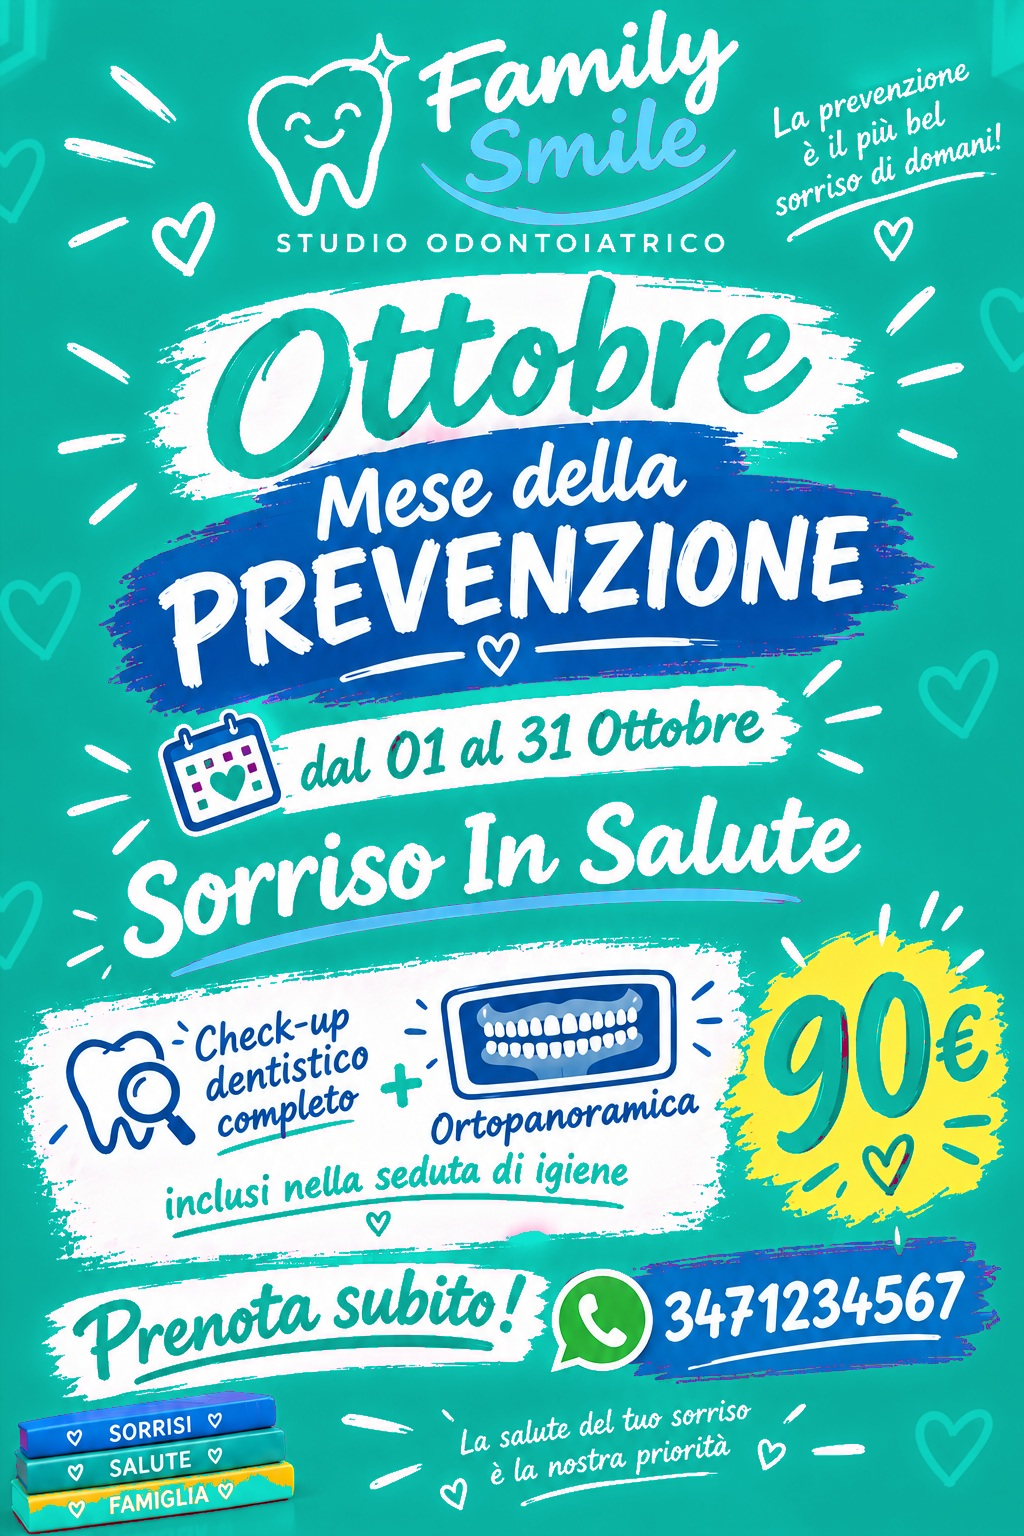
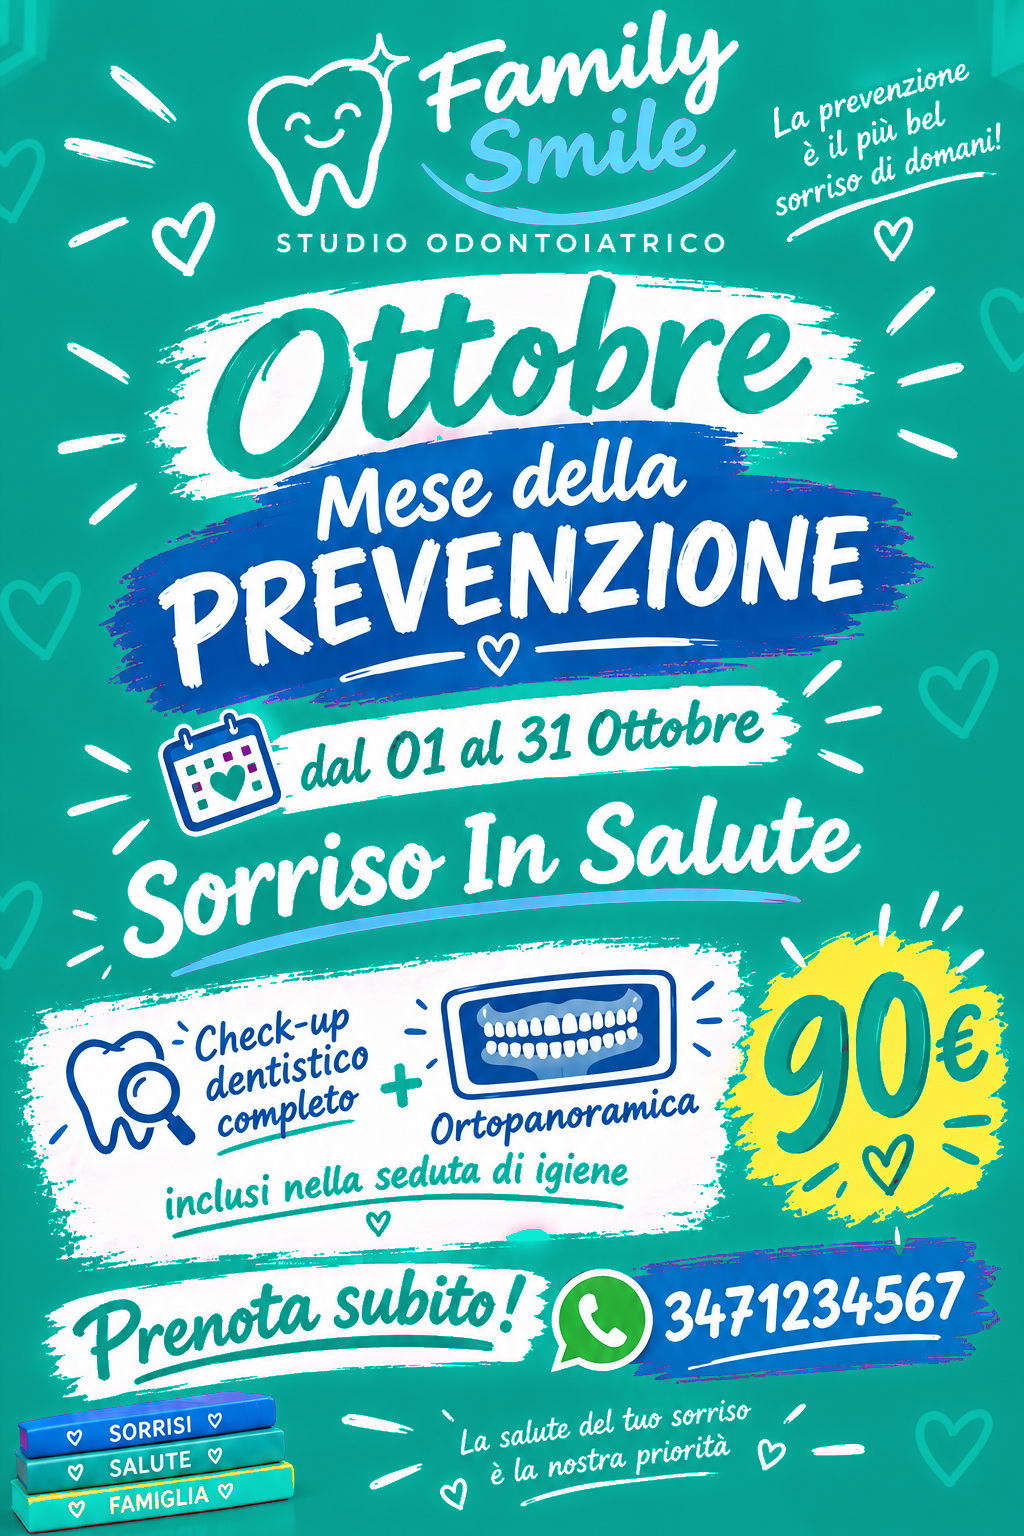
nuova versione editor v3

diff --git a/index.html b/index.html
@@ -1,36 +1,71 @@
 <!doctype html><html lang="it"><head><meta charset="utf-8"><meta name="viewport" content="width=device-width,initial-scale=1">
-<title>Family Smile Editor V2</title>
-<link href="https://fonts.googleapis.com/css2?family=Caveat+Brush&family=Kalam:wght@700&family=Nunito:wght@800;900&family=Permanent+Marker&display=swap" rel="stylesheet">
+<title>Family Smile Editor PRO</title>
+<link rel="preconnect" href="https://fonts.googleapis.com"><link rel="preconnect" href="https://fonts.gstatic.com" crossorigin>
+<link href="https://fonts.googleapis.com/css2?family=Caveat+Brush&family=Kalam:wght@700&family=Nunito:wght@700;800;900&family=Permanent+Marker&display=swap" rel="stylesheet">
 <style>
-*{box-sizing:border-box}body{margin:0;background:#edf1f5;font-family:Nunito,Arial;color:#17324d}.app{display:grid;grid-template-columns:390px 1fr;min-height:100vh}.panel{height:100vh;overflow:auto;background:#fff;padding:20px;box-shadow:2px 0 18px #0002;z-index:3}.panel h2{margin:0}.hint{font-size:12px;color:#687b8d;line-height:1.45;margin:5px 0 14px}label{font-size:12px;font-weight:900;display:block;margin:9px 0 3px}input{width:100%;padding:9px;border:1px solid #d7e0e8;border-radius:9px;font:inherit}.row{display:grid;grid-template-columns:1fr 1fr;gap:8px}.pals{display:grid;grid-template-columns:repeat(5,1fr);gap:6px}.pal{text-align:center;font-size:10px;font-weight:900;cursor:pointer}.thumb{height:68px;border-radius:8px;background-size:cover;background-position:center;border:2px solid white;box-shadow:0 0 0 1px #ccd}.pal.active .thumb{outline:3px solid #222}.actions{display:grid;grid-template-columns:1fr 1fr;gap:8px;margin-top:14px}button{padding:10px;border:0;border-radius:9px;background:#075da8;color:#fff;font-weight:900;cursor:pointer}.secondary{background:#687c8f}.stage{display:flex;justify-content:center;padding:24px;overflow:auto}.sheet{width:min(768px,calc(100vw - 440px));aspect-ratio:2/3;filter:drop-shadow(0 18px 38px #0003)}svg{width:100%;height:100%;display:block}.note{margin-top:12px;padding:9px;background:#f2f6fa;border-radius:9px;font-size:11px;line-height:1.4}@media(max-width:900px){.app{grid-template-columns:1fr}.panel{height:auto}.sheet{width:min(96vw,768px)}.stage{padding:8px}}
-</style></head><body><div class="app"><aside class="panel"><h2>Family Smile — Editor V2</h2><div class="hint">Motore riscritto in <b>SVG vettoriale</b>. Il testo viene ingrandito fino a riempire la sua area grafica e ridotto solo quando serve.</div>
-<label>Palette</label><div class="pals" id="pals"></div><div class="row"><div><label>Mese</label><input data-id="month" value="Ottobre"></div><div><label>Periodo</label><input data-id="dates" value="dal 01 al 31 Ottobre"></div></div><label>Campagna</label><input data-id="offer" value="Sorriso In Salute"><div class="row"><div><label>Prestazione 1</label><input data-id="service1" value="Check-up dentistico completo"></div><div><label>Prestazione 2</label><input data-id="service2" value="Ortopanoramica"></div></div><label>Nota</label><input data-id="desc" value="inclusi nella seduta di igiene"><div class="row"><div><label>Prezzo</label><input data-id="price" value="90€"></div><div><label>WhatsApp</label><input data-id="phone" value="3471234567"></div></div><label>Indirizzo</label><input data-id="address" value="Via Sono Prova 19"><div class="actions"><button id="png">PNG HD</button><button id="pdf">PDF A4</button><button class="secondary" id="save">Salva preset</button><button class="secondary" onclick="location.reload()">Ripristina</button></div><div class="note">Auto-fit basato su <b>SVG getBBox()</b>: non dipende dalla dimensione dello schermo o dai pixel CSS.</div></aside>
-<main class="stage"><div class="sheet"><svg id="poster" viewBox="0 0 1024 1536" xmlns="http://www.w3.org/2000/svg">
+:root{--navy:#073b70;--pink:#f40069;--blue:#0873bd;--cyan:#29d2ee}
+*{box-sizing:border-box}body{margin:0;background:#edf3f7;color:#0b315b;font-family:Nunito,Arial,sans-serif}.top{height:74px;background:#0a3159;color:#fff;display:flex;align-items:center;justify-content:space-between;padding:0 30px;position:sticky;top:0;z-index:20}.brand{font-size:25px;font-weight:900}.brand b{color:#25cbe7}.top button{background:transparent;border:0;color:#fff;font:800 14px Nunito;padding:12px 14px}.top .download{background:#f60068;border-radius:8px;padding:14px 22px}.layout{display:grid;grid-template-columns:340px minmax(500px,690px) 350px;gap:18px;padding:18px;justify-content:center}.card{background:#fff;border:1px solid #dbe6ee;border-radius:14px;padding:15px;box-shadow:0 3px 14px #0b315b0c;margin-bottom:14px}.fieldHead{display:flex;gap:10px;align-items:center;font-weight:900}.num{width:30px;height:30px;border-radius:50%;background:#f60068;color:#fff;display:grid;place-items:center}.sub{font-size:11px;color:#607d99;margin:1px 0 8px 40px}.previewText{width:100%;min-height:67px;border:1px solid #ccdbe7;border-radius:8px;padding:10px 13px;font:700 25px "Caveat Brush",cursive;color:#f60068;resize:none}.controls{display:grid;grid-template-columns:1fr 78px;gap:10px;margin-top:9px}.controls select{width:100%;padding:7px;border:1px solid #d2dfe8;border-radius:7px}.swatch{display:flex;gap:6px;align-items:center;font-size:11px}.swatch input{width:34px;height:30px;border:0;background:none}.posterWrap{position:sticky;top:92px}.poster{width:100%;aspect-ratio:2/3;filter:drop-shadow(0 12px 22px #0b315b30)}#flyer{width:100%;height:100%;display:block}.pals{display:grid;grid-template-columns:repeat(5,1fr);gap:6px}.pal{font-size:9px;text-align:center;font-weight:900;cursor:pointer}.thumb{aspect-ratio:2/3;border-radius:5px;background-size:cover;background-position:center;border:2px solid #fff;box-shadow:0 0 0 1px #d5e0e8}.pal.active .thumb{outline:3px solid #f60068}.sideTitle{font-size:16px;font-weight:900;margin-bottom:10px}.fixed{background:#effaf2;border-color:#d6eedc}.fixed ul{padding-left:20px;margin:7px 0;font-size:12px;line-height:1.75}.icons{display:grid;grid-template-columns:repeat(3,1fr);gap:8px}.ico{border:1px solid #d9e5ed;border-radius:9px;text-align:center;padding:8px 3px;font-size:10px}.ico svg{width:42px;height:42px;color:#07549b}.actions{display:grid;grid-template-columns:1fr 1fr;gap:8px}.actions button{border:0;border-radius:8px;padding:12px;background:#f60068;color:#fff;font-weight:900}.actions button:last-child{background:#0873bd}.tip{font-size:12px;line-height:1.55;color:#4e6c86}.status{font-size:11px;margin-top:8px;color:#16844d;font-weight:800}
+@media(max-width:1200px){.layout{grid-template-columns:320px minmax(460px,650px)}.right{grid-column:1/-1;display:grid;grid-template-columns:1fr 1fr;gap:14px}.right .card{margin:0}}
+@media(max-width:820px){.top{padding:0 12px}.brand{font-size:18px}.top .hideMob{display:none}.layout{display:block;padding:10px}.left,.right{display:block}.posterWrap{position:relative;top:auto;margin-bottom:14px}.right .card{margin-bottom:12px}}
+</style></head><body>
+<header class="top"><div class="brand">♡ Family <b>Smile</b> <small>EDITOR PRO</small></div><div><button class="hideMob" id="saveTop">▣ Salva</button><button class="hideMob" id="resetTop">↻ Ripristina</button><button class="download" id="pngTop">⇩ Scarica PNG</button></div></header>
+<div class="layout">
+<aside class="left">
+<div class="card editor" data-field="month"><div class="fieldHead"><span class="num">1</span>Testo principale (Mese)</div><div class="sub">Testo libero · riempimento automatico dello spazio</div><textarea class="previewText" data-input="month">Ottobre</textarea><div class="controls"><select data-font="month"><option value="Caveat Brush">Brush originale</option><option value="Kalam">Kalam</option><option value="Permanent Marker">Marker</option></select><label class="swatch">Colore <input type="color" data-color="month" value="#f40069"></label></div></div>
+<div class="card editor" data-field="campaign"><div class="fieldHead"><span class="num">2</span>Nome campagna</div><div class="sub">1 o 2 righe · prima riga più piccola · seconda in evidenza</div><textarea class="previewText" data-input="campaign" style="color:#0873bd">Mese della&#10;PREVENZIONE</textarea><div class="controls"><select data-font="campaign"><option value="Caveat Brush">Brush originale</option><option value="Kalam">Kalam</option><option value="Permanent Marker">Marker</option></select><label class="swatch">Colore <input type="color" data-color="campaign" value="#ffffff"></label></div></div>
+<div class="card editor" data-field="subtitle"><div class="fieldHead"><span class="num">3</span>Sottotitolo campagna</div><div class="sub">Testo libero · riempimento automatico dello spazio</div><textarea class="previewText" data-input="subtitle">Sorriso In Salute</textarea><div class="controls"><select data-font="subtitle"><option value="Caveat Brush">Brush originale</option><option value="Kalam">Kalam</option><option value="Permanent Marker">Marker</option></select><label class="swatch">Colore <input type="color" data-color="subtitle" value="#ffffff"></label></div></div>
+<div class="card"><div class="sideTitle">Varianti colore della grafica</div><div class="pals" id="pals"></div></div>
+</aside>
+
+<main class="posterWrap"><div class="poster"><svg id="flyer" viewBox="0 0 1024 1536" xmlns="http://www.w3.org/2000/svg">
 <image id="master" href="/assets/templates/fucsia.jpg" width="1024" height="1536" preserveAspectRatio="none"/>
-<rect x="252" y="316" width="532" height="128" fill="#fff"/><rect x="268" y="690" width="510" height="62" rx="18" fill="#fff"/><rect id="offerMask" x="122" y="783" width="706" height="92" fill="#ef0069"/><rect x="166" y="1002" width="225" height="100" fill="#fff"/><rect x="431" y="1016" width="287" height="84" fill="#fff"/><rect x="176" y="1110" width="527" height="61" fill="#fff"/><ellipse cx="846" cy="1055" rx="87" ry="88" fill="#ffe12e"/><rect x="649" y="1261" width="272" height="65" fill="#0871bd"/><rect x="491" y="1403" width="424" height="65" rx="18" fill="#fff"/>
-<g text-anchor="middle" dominant-baseline="middle">
-<text id="month" x="518" y="380" fill="#ef0069" font-family="Caveat Brush,Kalam,cursive">Ottobre</text>
-<text id="dates" x="523" y="721" fill="#ef0069" font-family="Kalam,cursive">dal 01 al 31 Ottobre</text>
-<text id="offer" x="475" y="829" fill="#fff" font-family="Caveat Brush,Kalam,cursive">Sorriso In Salute</text>
-<text id="service1" x="278" y="1052" fill="#07549b" font-family="Caveat Brush,Kalam,cursive">Check-up dentistico completo</text>
-<text id="service2" x="574" y="1058" fill="#07549b" font-family="Caveat Brush,Kalam,cursive">Ortopanoramica</text>
-<text id="desc" x="439" y="1140" fill="#ef0069" font-family="Caveat Brush,Kalam,cursive">inclusi nella seduta di igiene</text>
-<text id="price" x="846" y="1055" fill="#ef0069" font-family="Permanent Marker,sans-serif">90€</text>
-<text id="phone" x="785" y="1293" fill="#fff" font-family="Caveat Brush,Kalam,cursive">3471234567</text>
-<text id="address" x="703" y="1436" fill="#07549b" font-family="Nunito,Arial" font-weight="900">Via Sono Prova 19</text></g>
-</svg></div></main></div>
+<!-- SECTION 1: a new native brush area, completely clears the old month. -->
+<path id="monthBrush" d="M165 171 C310 157 615 159 822 179 L805 294 C624 303 339 302 177 291 C160 257 156 208 165 171Z" fill="#fff"/>
+<text id="monthText" x="493" y="238" text-anchor="middle" dominant-baseline="middle" fill="#f40069" font-family="Caveat Brush,cursive">Ottobre</text>
+<!-- SECTION 2: blue native brush area; no underlying campaign text remains. -->
+<path id="campaignBrush" d="M123 294 C305 273 664 276 881 315 L859 462 C650 477 326 474 142 452 C126 404 116 348 123 294Z" fill="#0873bd"/>
+<text id="campaignLine1" x="505" y="347" text-anchor="middle" dominant-baseline="middle" fill="#fff" font-family="Caveat Brush,cursive">Mese della</text>
+<text id="campaignLine2" x="505" y="408" text-anchor="middle" dominant-baseline="middle" fill="#fff" font-family="Caveat Brush,cursive">PREVENZIONE</text>
+<!-- Keep original date/calendar untouched. -->
+<!-- SECTION 3: pink native background area; completely clears old subtitle while preserving surrounding artwork. -->
+<path id="subtitlePatch" d="M114 527 C289 500 649 501 870 531 L858 622 C654 639 325 639 128 616 C115 586 108 553 114 527Z" fill="#f40069"/>
+<text id="subtitleText" x="494" y="574" text-anchor="middle" dominant-baseline="middle" fill="#fff" font-family="Caveat Brush,cursive">Sorriso In Salute</text>
+<!-- fixed contact corrections -->
+<path d="M546 1290 C700 1275 870 1276 962 1290 L951 1360 C809 1368 676 1365 550 1358Z" fill="#0873bd"/>
+<text x="770" y="1325" text-anchor="middle" dominant-baseline="middle" fill="#fff" font-family="Caveat Brush,cursive" font-size="55">328 6786737</text>
+<path d="M500 1403 C650 1390 835 1391 963 1407 L950 1474 C802 1481 650 1478 505 1468Z" fill="#fff"/>
+<text x="752" y="1438" text-anchor="middle" dominant-baseline="middle" fill="#07549b" font-family="Caveat Brush,cursive" font-size="38">📍 Via Augusto Pierantoni 16</text>
+</svg></div></main>
+
+<aside class="right">
+<div class="card"><div class="sideTitle">💡 Istruzioni</div><div class="tip">Modifica solo i <b>3 testi principali</b>. Le tre aree sono state ricostruite come parti native della locandina: sotto non rimane il testo originale. Dimensione e spaziatura si adattano automaticamente.</div></div>
+<div class="card"><div class="sideTitle">Icone prestazioni</div><div class="icons" id="icons"></div><div class="tip" style="margin-top:8px">Catalogo pronto per future campagne; in questa locandina le prestazioni restano fisse.</div></div>
+<div class="card fixed"><div class="sideTitle">✓ Elementi fissi (non modificabili)</div><ul><li>Logo Family Smile e decorazioni</li><li>Calendario e periodo</li><li>Prestazioni e prezzo 90€</li><li>Prenota subito!</li><li>WhatsApp: 328 6786737</li><li>Indirizzo: Via Augusto Pierantoni 16</li><li>Libri Sorrisi · Salute · Famiglia</li></ul></div>
+<div class="card"><div class="sideTitle">Esporta locandina</div><div class="actions"><button id="pngBtn">Scarica PNG HD</button><button id="pdfBtn">Scarica PDF A4</button></div><div class="status" id="status">Pronto.</div></div>
+</aside></div>
 <script src="https://cdn.jsdelivr.net/npm/jspdf@2.5.2/dist/jspdf.umd.min.js"></script>
 <script>
-const C={month:[532,128,42,122],dates:[510,62,22,58],offer:[706,92,38,98],service1:[225,100,20,70],service2:[287,84,22,68],desc:[527,61,22,58],price:[174,176,44,128],phone:[272,65,26,66],address:[424,65,22,50]};
-const T={fucsia:['fucsia.jpg','#ef0069'],blu:['blu.jpg','#137bc3'],acqua:['acqua.jpg','#0aa99b'],arancio:['arancio.jpg','#f06a21'],viola:['viola.jpg','#9a2bd1']},N={fucsia:'Fucsia',blu:'Blu',acqua:'Acqua',arancio:'Arancio',viola:'Viola'};let current='fucsia';
-Object.keys(T).forEach((k,i)=>{let d=document.createElement('div');d.className='pal'+(i?'':' active');d.innerHTML=`<div class="thumb" style="background-image:url('/assets/templates/${T[k][0]}')"></div>${N[k]}`;d.onclick=()=>setTheme(k,d);pals.appendChild(d)});
-function setTheme(k,d){current=k;master.setAttribute('href','/assets/templates/'+T[k][0]);offerMask.setAttribute('fill',T[k][1]);['month','dates','desc','price'].forEach(id=>document.getElementById(id).setAttribute('fill',T[k][1]));document.querySelectorAll('.pal').forEach(x=>x.classList.remove('active'));d&&d.classList.add('active')}
-function fit(id){let e=document.getElementById(id),[w,h,min,max]=C[id],lo=min,hi=max,best=min;for(let i=0;i<16;i++){let s=(lo+hi)/2;e.setAttribute('font-size',s);let b=e.getBBox();if(b.width<=w-16&&b.height<=h-10){best=s;lo=s}else hi=s}e.setAttribute('font-size',best)}
-async function fitAll(){await document.fonts.ready;Object.keys(C).forEach(fit)}
-document.querySelectorAll('[data-id]').forEach(i=>i.oninput=e=>{let id=e.target.dataset.id;document.getElementById(id).textContent=e.target.value;fit(id)});
-window.onload=fitAll;setTheme('fucsia',document.querySelector('.pal'));
-async function raster(scale=3){await document.fonts.ready;await fitAll();let s=new XMLSerializer().serializeToString(poster),u=URL.createObjectURL(new Blob([s],{type:'image/svg+xml'})),im=new Image();await new Promise((ok,no)=>{im.onload=ok;im.onerror=no;im.src=u});let c=document.createElement('canvas');c.width=1024*scale;c.height=1536*scale;c.getContext('2d').drawImage(im,0,0,c.width,c.height);URL.revokeObjectURL(u);return c}
-png.onclick=async()=>{let c=await raster(),a=document.createElement('a');a.download='family-smile-HD.png';a.href=c.toDataURL('image/png');a.click()};
-pdf.onclick=async()=>{let c=await raster(),{jsPDF}=window.jspdf,p=new jsPDF({unit:'mm',format:'a4'});p.addImage(c.toDataURL('image/jpeg',.98),'JPEG',0,0,210,297);p.save('family-smile-A4.pdf')};
-save.onclick=()=>{let d={theme:current,values:{}};document.querySelectorAll('[data-id]').forEach(i=>d.values[i.dataset.id]=i.value);localStorage.setItem('fs-v2',JSON.stringify(d));alert('Preset salvato')};
+const NS='http://www.w3.org/2000/svg';
+const themeData={fucsia:['fucsia.jpg','#f40069','#0873bd'],blu:['blu.jpg','#137bc3','#07549b'],acqua:['acqua.jpg','#08a99c','#087c82'],arancio:['arancio.jpg','#f06a21','#a9471e'],viola:['viola.jpg','#9a2bd1','#5b2b91']};
+const themeNames={fucsia:'Fucsia',blu:'Blu',acqua:'Verde Acqua',arancio:'Arancione',viola:'Viola'};let currentTheme='fucsia';
+for(const [k,v] of Object.entries(themeData)){const d=document.createElement('div');d.className='pal'+(k==='fucsia'?' active':'');d.innerHTML=`<div class="thumb" style="background-image:url('/assets/templates/${v[0]}')"></div>${themeNames[k]}`;d.onclick=()=>applyTheme(k,d);pals.appendChild(d)}
+function applyTheme(k,d){currentTheme=k;const t=themeData[k];master.setAttribute('href','/assets/templates/'+t[0]);subtitlePatch.setAttribute('fill',t[1]);campaignBrush.setAttribute('fill',t[2]);document.querySelectorAll('.pal').forEach(x=>x.classList.remove('active'));d?.classList.add('active')}
+const icons=[['⌕','Check-up'],['✦','Sbiancamento'],['♡','Igiene'],['▦','Ortodonzia'],['♜','Implantologia'],['♧','Pediatrica']];
+icons.forEach(([a,b])=>{let d=document.createElement('div');d.className='ico';d.innerHTML=`<div style="font-size:34px;color:#07549b;height:45px">${a}</div>${b}`;document.getElementById('icons').appendChild(d)});
+function setFont(ids,font){ids.forEach(id=>document.getElementById(id).setAttribute('font-family',font+',cursive'))}
+function fitSingle(id,box,min,max){const e=document.getElementById(id);let lo=min,hi=max,best=min;for(let i=0;i<18;i++){let s=(lo+hi)/2;e.setAttribute('font-size',s);const b=e.getBBox();if(b.width<=box[0]&&b.height<=box[1]){best=s;lo=s}else hi=s}e.setAttribute('font-size',best.toFixed(1))}
+function updateMonth(){monthText.textContent=document.querySelector('[data-input=month]').value||' ';fitSingle('monthText',[570,110],45,145)}
+function updateSubtitle(){subtitleText.textContent=document.querySelector('[data-input=subtitle]').value||' ';fitSingle('subtitleText',[720,82],38,105)}
+function updateCampaign(){let raw=document.querySelector('[data-input=campaign]').value.trim(),lines=raw.split(/\n+/).filter(Boolean);if(lines.length===1){let words=lines[0].split(/\s+/);if(words.length>1){let cut=Math.max(1,Math.floor(words.length/2));lines=[words.slice(0,cut).join(' '),words.slice(cut).join(' ')]}else lines=[lines[0],'']}campaignLine1.textContent=lines[0]||' ';campaignLine2.textContent=lines.slice(1).join(' ')||' ';fitSingle('campaignLine1',[690,55],30,72);fitSingle('campaignLine2',[760,80],44,108)}
+async function updateAll(){await document.fonts.ready;updateMonth();updateCampaign();updateSubtitle()}
+document.querySelectorAll('[data-input]').forEach(e=>e.addEventListener('input',updateAll));
+document.querySelectorAll('[data-font]').forEach(e=>e.addEventListener('change',()=>{const k=e.dataset.font,f=e.value;if(k==='month')setFont(['monthText'],f);if(k==='campaign')setFont(['campaignLine1','campaignLine2'],f);if(k==='subtitle')setFont(['subtitleText'],f);updateAll()}));
+document.querySelectorAll('[data-color]').forEach(e=>e.addEventListener('input',()=>{const k=e.dataset.color;if(k==='month')monthText.setAttribute('fill',e.value);if(k==='campaign'){campaignLine1.setAttribute('fill',e.value);campaignLine2.setAttribute('fill',e.value)}if(k==='subtitle')subtitleText.setAttribute('fill',e.value)}));
+async function raster(scale=3){await document.fonts.ready;await updateAll();const clone=flyer.cloneNode(true);let xml=new XMLSerializer().serializeToString(clone);let blob=new Blob([xml],{type:'image/svg+xml;charset=utf-8'}),url=URL.createObjectURL(blob),img=new Image();await new Promise((ok,no)=>{img.onload=ok;img.onerror=no;img.src=url});let c=document.createElement('canvas');c.width=1024*scale;c.height=1536*scale;c.getContext('2d').drawImage(img,0,0,c.width,c.height);URL.revokeObjectURL(url);return c}
+async function downloadPNG(){status.textContent='Genero PNG HD…';let c=await raster(3),a=document.createElement('a');a.download='family-smile-campagna-HD.png';a.href=c.toDataURL('image/png');a.click();status.textContent='PNG generato.'}
+async function downloadPDF(){status.textContent='Genero PDF A4…';let c=await raster(3),{jsPDF}=window.jspdf,p=new jsPDF({unit:'mm',format:'a4'});p.addImage(c.toDataURL('image/jpeg',.98),'JPEG',0,0,210,297);p.save('family-smile-campagna-A4.pdf');status.textContent='PDF generato.'}
+pngBtn.onclick=pngTop.onclick=downloadPNG;pdfBtn.onclick=downloadPDF;
+function savePreset(){let o={theme:currentTheme,fields:{}};document.querySelectorAll('[data-input]').forEach(x=>o.fields[x.dataset.input]=x.value);localStorage.setItem('familySmileProV3',JSON.stringify(o));status.textContent='Preset salvato nel browser.'}saveTop.onclick=savePreset;
+function resetAll(){localStorage.removeItem('familySmileProV3');location.reload()}resetTop.onclick=resetAll;
+window.addEventListener('load',async()=>{let s=localStorage.getItem('familySmileProV3');if(s){try{let o=JSON.parse(s);Object.entries(o.fields||{}).forEach(([k,v])=>{let x=document.querySelector(`[data-input="${k}"]`);if(x)x.value=v});let idx=Object.keys(themeData).indexOf(o.theme);applyTheme(o.theme||'fucsia',document.querySelectorAll('.pal')[Math.max(0,idx)])}catch(e){}}await updateAll()});
 </script></body></html>

diff --git a/README.md b/README.md
@@ -1,5 +1,21 @@
-# Family Smile Editor V2
+# Family Smile Editor PRO V3
 
-Avvio: `docker compose up -d --build --force-recreate`
+Editor ricostruito attorno a tre sole aree realmente personalizzabili:
+1. Mese
+2. Nome campagna (1/2 righe, prima più piccola)
+3. Sottotitolo campagna
 
-URL: `http://IP-SERVER:8191`
+Le aree sono ridisegnate nel template SVG e quindi non contengono più le vecchie scritte sotto.
+
+## Avvio
+```bash
+docker compose down
+docker compose build --no-cache
+docker compose up -d --force-recreate
+```
+
+Apri `http://IP-SERVER:8191`.
+
+## Stack
+Nginx Alpine + HTML/CSS + SVG nativo + Google Fonts + jsPDF.
+L'auto-fit usa SVG getBBox() nel sistema 1024×1536.
